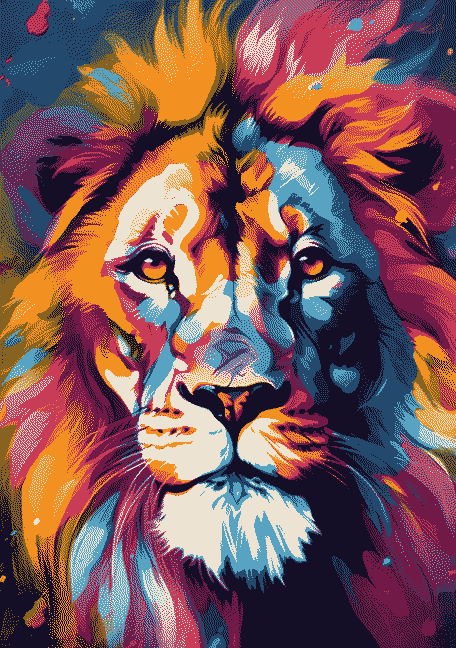
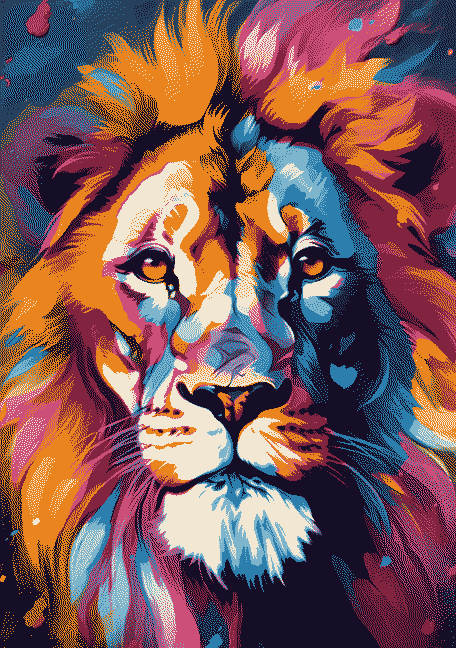
t2 past

diff --git a/gen_dataset.py b/gen_dataset.py
@@ -1,9 +1,8 @@
 import os
 import time
 
-imgs = ['image2', 'catedral', 'Mountain']
-# types = ['kmeans', 'dither']
-color_number = [[4,8,16, 256], [2, 4, 8, 16]]
+imgs = ['lion', 'candyr']
+color_number = [[8,16, 256], [8, 16, 256]]
 
 os.makedirs('./results', exist_ok=True)
 
@@ -11,10 +10,12 @@ for i in range(len(imgs)):
     for z in color_number[i]:
         p_test = time.time()
         colours = z
-        file_ext = 'png' if os.path.exists(f'./imgs/{imgs[i]}.png') else 'jpg'
+        for exts in ['png', 'jpg', 'jpeg', 'jfif']:
+            if os.path.exists(f'./imgs/{imgs[i]}.{exts}'):
+                file_ext = exts
         t = '{0}'
         os.system(f'python3 ./src/ev.py -i ./imgs/{imgs[i]}.{file_ext} -r ./results/{imgs[i]}_{t}/{z}.png -n {colours}')
         now_num = time.time()
         print(f'img {imgs[i]} c {colours} d+k {now_num-p_test} ')
         
-    exit()
+    # exit()

diff --git a/src/ev.py b/src/ev.py
@@ -75,7 +75,7 @@ def dithering(img, arr_list):
                 if j+1 < xlim:
                     img[i+1][j+1] = img[i+1][j+1] + ((qerr * 1) / 16)
             
-            if j>0 and ylimflag:
+            if j > 0 and ylimflag:
                 img[i+1][j-1] = img[i+1][j-1] + ((qerr * 3) / 16)
             
             if j+1 < xlim:
